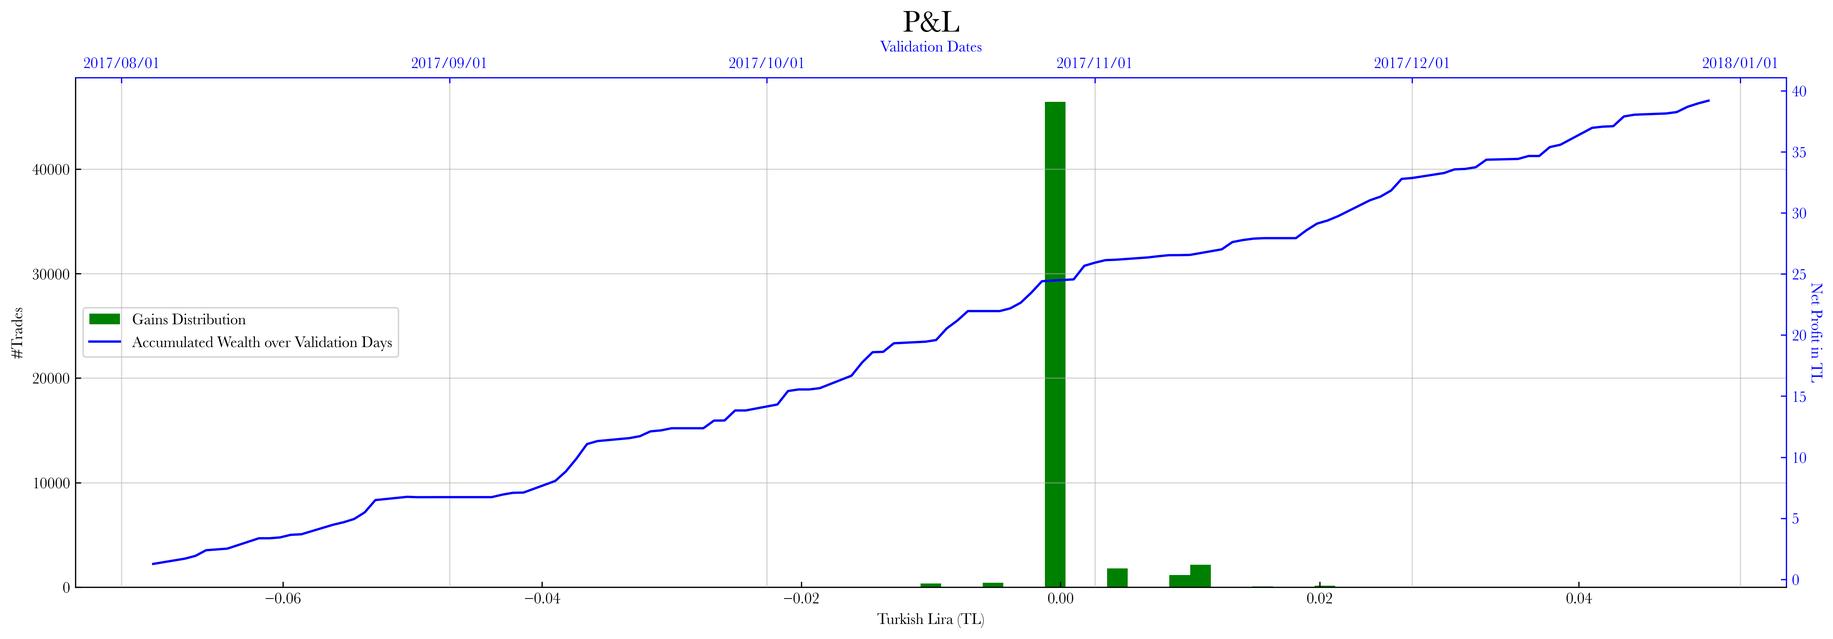
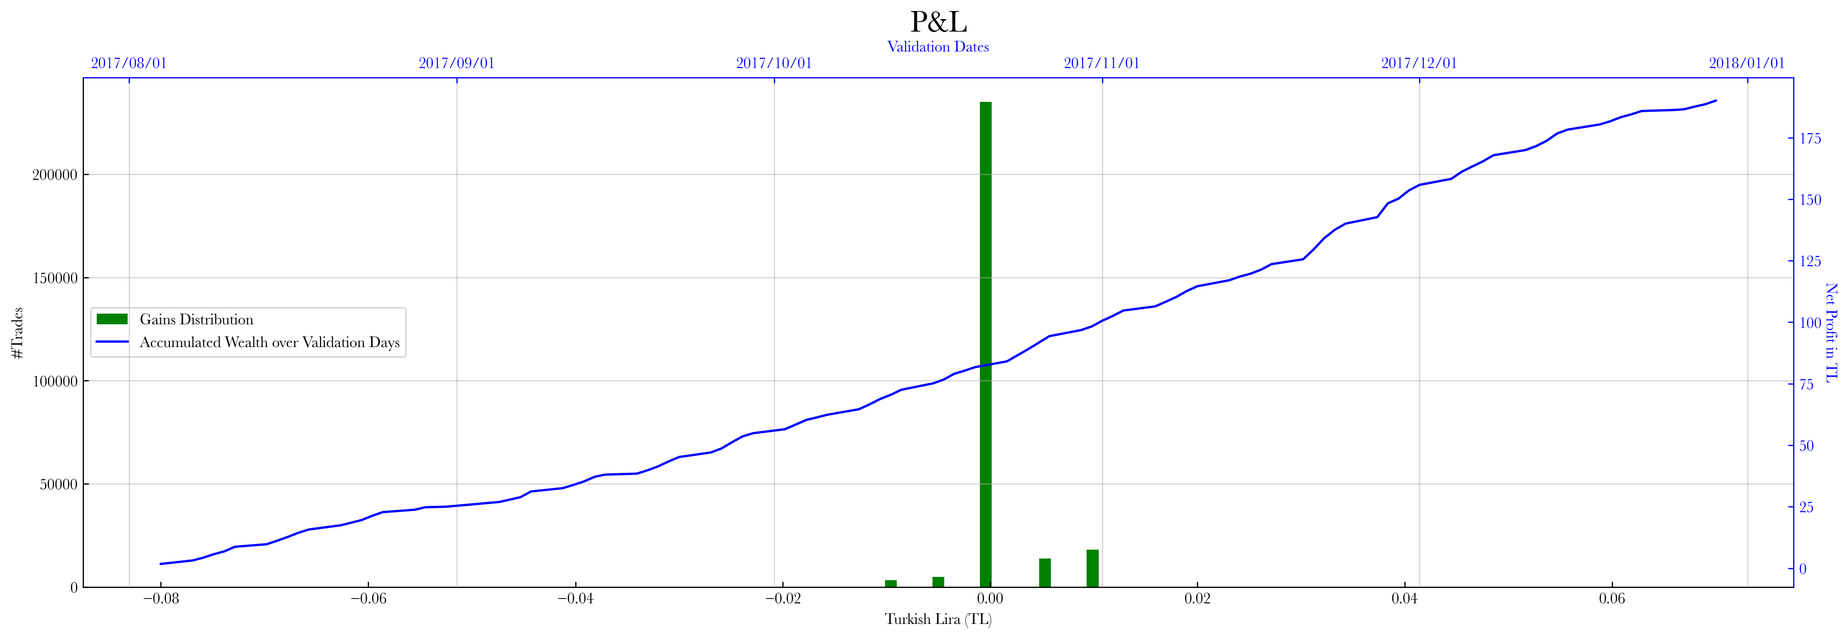
updated RL_ex/paper/ESNPPO

diff --git a/RL_Examples/RL_paper/ESN-PPO/paper_reservoir_website_PPO.html b/RL_Examples/RL_paper/ESN-PPO/paper_reservoir_website_PPO.html
@@ -13051,8 +13051,7 @@ div#notebook {
 </style>
 
 <!-- Custom stylesheet, it must be in the same directory as the html file -->
-<link rel="stylesheet" href="../../RL_Examples.css">
-<script src="../../RL_Examples.js"></script>
+<link rel="stylesheet" href="custom.css">
 
 <!-- Loading mathjax macro -->
 <!-- Load mathjax -->
@@ -13158,7 +13157,6 @@ $( document ).ready(function(){
 <span class="kn">import</span> <span class="nn">pandas</span> <span class="k">as</span> <span class="nn">pd</span>
 <span class="kn">import</span> <span class="nn">numpy</span> <span class="k">as</span> <span class="nn">np</span>
 <span class="kn">from</span> <span class="nn">CustomStableBaselines</span> <span class="kn">import</span> <span class="n">CustomPPO</span>
-<span class="kn">from</span> <span class="nn">CustomReservoirNetwork_Policy</span> <span class="kn">import</span> <span class="n">CustomActorCriticReservoirPolicy</span>
 <span class="kn">from</span> <span class="nn">LOBenv_mid</span> <span class="kn">import</span> <span class="n">LOBEnv_mid</span>
 <span class="kn">from</span> <span class="nn">tqdm.notebook</span> <span class="kn">import</span> <span class="n">tqdm</span><span class="p">,</span><span class="n">trange</span>
 <span class="kn">from</span> <span class="nn">torchinfo</span> <span class="kn">import</span> <span class="n">summary</span>
@@ -13166,7 +13164,9 @@ $( document ).ready(function(){
 <span class="kn">from</span> <span class="nn">torchinfo</span> <span class="kn">import</span> <span class="n">summary</span>
 <span class="kn">from</span> <span class="nn">utils.df_handler</span> <span class="kn">import</span> <span class="n">force_zehnerpot</span>
 
-<span class="n">model_dir</span> <span class="o">=</span> <span class="s2">&quot;../../models/model_envs_mid_reservoir/13_12_21/&quot;</span>
+<span class="n">model_dir</span> <span class="o">=</span> <span class="s2">&quot;../../models/model_envs_mid_reservoir/18_12_2021_21_28_06/&quot;</span>
+<span class="n">sys</span><span class="o">.</span><span class="n">path</span><span class="o">.</span><span class="n">append</span><span class="p">(</span><span class="n">model_dir</span><span class="p">)</span>
+<span class="kn">from</span> <span class="nn">model</span> <span class="kn">import</span> <span class="n">CustomActorCriticReservoirPolicy</span>
 
 <span class="n">LOB</span> <span class="o">=</span> <span class="n">pd</span><span class="o">.</span><span class="n">read_pickle</span><span class="p">(</span><span class="s2">&quot;../../pkls/LOB_conti.pkl&quot;</span><span class="p">)</span>
 
@@ -13230,12 +13230,13 @@ $( document ).ready(function(){
 
 
 <div class="output_subarea output_stream output_stdout output_text">
-<pre>Reservoir generated. Spectral Radius: 6.632618786987508
+<pre>Reservoir generated. Number of units: 1000 Spectral Radius: 9.383778346648828
 Scaling matrix to have spectral radius 0.9...
-Done: 0.899999999999998
-Reservoir generated. Spectral Radius: 6.632618786987508
+Done: 0.8999999999999936
+Reservoir generated. Number of units: 1000 Spectral Radius: 9.383778346648828
 Scaling matrix to have spectral radius 0.9...
-Done: 0.899999999999998
+Done: 0.8999999999999936
+Win (input weights) generated.
 Win (input weights) generated.
 </pre>
 </div>
@@ -13261,29 +13262,29 @@ CustomActorCriticReservoirPolicy         --                        --
 │    └─Sequential: 2                     --                        --
 │    │    └─BatchNorm1d: 3-1             [1, 13]                   (recursive)
 │    └─CustomESNN: 2                     --                        --
-│    │    └─Linear: 3-2                  [1, 64]                   31,616
+│    │    └─Linear: 3-2                  [1, 64]                   64,896
 │    └─Sequential: 2                     --                        --
 │    │    └─Tanh: 3-3                    [1, 64]                   --
-│    └─Sequential: 2-4                   [1, 64]                   (recursive)
-│    └─BatchNorm1d: 2-5                  [1, 13]                   (recursive)
+│    └─Sequential: 2-4                   [1, 64]                   --
+│    └─BatchNorm1d: 2-5                  [1, 13]                   26
 │    └─Sequential: 2                     --                        --
 │    │    └─BatchNorm1d: 3-4             [1, 13]                   (recursive)
 │    └─CustomESNN: 2                     --                        --
-│    │    └─Linear: 3-5                  [1, 64]                   (recursive)
+│    │    └─Linear: 3-5                  [1, 64]                   64,896
 │    └─Sequential: 2                     --                        --
 │    │    └─Tanh: 3-6                    [1, 64]                   --
 ├─Linear: 1-3                            [1, 1]                    65
 ├─Linear: 1-4                            [1, 4]                    260
 ==========================================================================================
-Total params: 31,967
-Trainable params: 31,967
+Total params: 130,169
+Trainable params: 130,169
 Non-trainable params: 0
-Total mult-adds (M): 0.13
+Total mult-adds (M): 0.26
 ==========================================================================================
 Input size (MB): 0.00
 Forward/backward pass size (MB): 0.00
-Params size (MB): 0.13
-Estimated Total Size (MB): 0.13
+Params size (MB): 0.52
+Estimated Total Size (MB): 0.52
 ==========================================================================================</pre>
 </div>
 
@@ -13345,7 +13346,7 @@ Estimated Total Size (MB): 0.13
 <span class="n">args</span> <span class="o">=</span> <span class="p">[</span>
         <span class="p">[</span>
         <span class="p">[</span><span class="n">np</span><span class="o">.</span><span class="n">concatenate</span><span class="p">([</span><span class="o">*</span><span class="n">rewards_mid</span><span class="o">.</span><span class="n">values</span><span class="p">()]),</span><span class="s2">&quot;rice&quot;</span><span class="p">,</span><span class="nb">dict</span><span class="p">(</span><span class="n">color</span><span class="o">=</span><span class="s2">&quot;g&quot;</span><span class="p">,</span><span class="n">label</span><span class="o">=</span><span class="s2">&quot;Gains Distribution&quot;</span><span class="p">)],[</span><span class="s2">&quot;P&amp;L&quot;</span><span class="p">,</span><span class="nb">dict</span><span class="p">(</span><span class="n">fontsize</span><span class="o">=</span><span class="mi">20</span><span class="p">,</span><span class="n">pad</span><span class="o">=</span><span class="mi">30</span><span class="p">)],[</span><span class="s2">&quot;Turkish Lira (TL)&quot;</span><span class="p">]</span> <span class="p">,[</span><span class="s2">&quot;#Trades&quot;</span><span class="p">]</span>
-            <span class="p">,[</span><span class="n">validation_dates</span><span class="p">,</span><span class="n">wallet</span><span class="p">,</span><span class="nb">dict</span><span class="p">(</span><span class="n">color</span><span class="o">=</span><span class="s2">&quot;blue&quot;</span><span class="p">,</span><span class="n">label</span><span class="o">=</span><span class="s2">&quot;Accumulated Wealth over Validation Days&quot;</span><span class="p">)],[</span><span class="nb">dict</span><span class="p">(</span><span class="n">loc</span><span class="o">=</span><span class="s2">&quot;center left&quot;</span><span class="p">)],[],[</span><span class="nb">dict</span><span class="p">(</span><span class="n">direction</span><span class="o">=</span><span class="s1">&#39;in&#39;</span><span class="p">)]</span>
+            <span class="p">,[</span><span class="n">validation_dates</span><span class="p">,</span><span class="n">wallet</span><span class="p">,</span><span class="nb">dict</span><span class="p">(</span><span class="n">color</span><span class="o">=</span><span class="s2">&quot;blue&quot;</span><span class="p">,</span><span class="n">label</span><span class="o">=</span><span class="s2">&quot;Accumulated Wealth over Validation Days&quot;</span><span class="p">)],[</span><span class="nb">dict</span><span class="p">(</span><span class="n">loc</span><span class="o">=</span><span class="s2">&quot;center left&quot;</span><span class="p">)],[</span><span class="nb">dict</span><span class="p">(</span><span class="n">direction</span><span class="o">=</span><span class="s1">&#39;in&#39;</span><span class="p">)]</span>
                         <span class="p">,</span><span class="nb">dict</span><span class="p">(</span><span class="n">color</span><span class="o">=</span><span class="s2">&quot;blue&quot;</span><span class="p">),[</span><span class="nb">dict</span><span class="p">(</span><span class="n">axis</span><span class="o">=</span><span class="s1">&#39;both&#39;</span><span class="p">,</span><span class="n">colors</span><span class="o">=</span><span class="s1">&#39;blue&#39;</span><span class="p">,</span><span class="n">direction</span><span class="o">=</span><span class="s1">&#39;in&#39;</span><span class="p">)]</span>
                                 <span class="p">,[</span><span class="s2">&quot;%Y/%m/</span><span class="si">%d</span><span class="s2">&quot;</span><span class="p">],[</span><span class="s2">&quot;Validation Dates&quot;</span><span class="p">,</span><span class="nb">dict</span><span class="p">(</span><span class="n">color</span><span class="o">=</span><span class="s2">&quot;blue&quot;</span><span class="p">)],[</span><span class="s2">&quot;Net Profit in TL&quot;</span><span class="p">,</span><span class="nb">dict</span><span class="p">(</span><span class="n">labelpad</span><span class="o">=</span><span class="mi">10</span><span class="p">,</span><span class="n">rotation</span><span class="o">=-</span><span class="mi">90</span><span class="p">,</span><span class="n">color</span><span class="o">=</span><span class="s2">&quot;blue&quot;</span><span class="p">)]</span>
                                                         <span class="p">,[</span><span class="nb">dict</span><span class="p">(</span><span class="n">b</span><span class="o">=</span><span class="kc">True</span><span class="p">,</span><span class="n">axis</span><span class="o">=</span><span class="s1">&#39;y&#39;</span><span class="p">,</span><span class="n">alpha</span><span class="o">=</span><span class="mf">0.5</span><span class="p">)],[</span><span class="nb">dict</span><span class="p">(</span><span class="n">b</span><span class="o">=</span><span class="kc">True</span><span class="p">,</span><span class="n">axis</span><span class="o">=</span><span class="s1">&#39;x&#39;</span><span class="p">,</span><span class="n">alpha</span><span class="o">=</span><span class="mf">0.5</span><span class="p">)]</span>
@@ -13353,7 +13354,7 @@ Estimated Total Size (MB): 0.13
 <span class="p">]</span>
 
 <span class="n">attrs</span> <span class="o">=</span> <span class="p">[</span><span class="s2">&quot;hist&quot;</span><span class="p">,</span><span class="s2">&quot;set_title&quot;</span><span class="p">,</span><span class="s2">&quot;set_xlabel&quot;</span><span class="p">,</span><span class="s2">&quot;set_ylabel&quot;</span>
-             <span class="p">,</span><span class="s2">&quot;2nd_plot&quot;</span><span class="p">,</span><span class="s2">&quot;legend&quot;</span><span class="p">,</span><span class="s2">&quot;2nd_legend&quot;</span><span class="p">,</span><span class="s2">&quot;tick_params&quot;</span>
+             <span class="p">,</span><span class="s2">&quot;2nd_plot&quot;</span><span class="p">,</span><span class="s2">&quot;legend&quot;</span><span class="p">,</span><span class="s2">&quot;tick_params&quot;</span>
                      <span class="p">,</span><span class="s2">&quot;2nd_color_ax&quot;</span><span class="p">,</span><span class="s2">&quot;2nd_tick_params&quot;</span>
                              <span class="p">,</span><span class="s2">&quot;2nd_time_formatx&quot;</span><span class="p">,</span><span class="s2">&quot;2nd_set_xlabel&quot;</span><span class="p">,</span><span class="s2">&quot;2nd_set_ylabel&quot;</span>
                                             <span class="p">,</span><span class="s2">&quot;grid&quot;</span><span class="p">,</span><span class="s2">&quot;2nd_grid&quot;</span><span class="p">]</span>     
@@ -13378,13 +13379,13 @@ Estimated Total Size (MB): 0.13
 
  
  
-<div id="e2a3b3c3-3667-49d7-84e1-146e3feb0db2"></div>
+<div id="53ccce64-a737-4822-8e02-2327310d4e97"></div>
 <div class="output_subarea output_widget_view ">
 <script type="text/javascript">
-var element = $('#e2a3b3c3-3667-49d7-84e1-146e3feb0db2');
+var element = $('#53ccce64-a737-4822-8e02-2327310d4e97');
 </script>
 <script type="application/vnd.jupyter.widget-view+json">
-{"model_id": "be4a04d87b9f41b7b468372d6ede61dd", "version_major": 2, "version_minor": 0}
+{"model_id": "b0e37abc05204190b03549f5f2d090ca", "version_major": 2, "version_minor": 0}
 </script>
 </div>
 
@@ -13396,7 +13397,7 @@ var element = $('#e2a3b3c3-3667-49d7-84e1-146e3feb0db2');
 
 
 <div class="output_subarea output_stream output_stdout output_text">
-<pre>Total Gains: 39.18 TL in 103 days.
+<pre>Total Gains: 190.07 TL in 103 days.
 </pre>
 </div>
 </div>
@@ -13407,7 +13408,7 @@ var element = $('#e2a3b3c3-3667-49d7-84e1-146e3feb0db2');
 
 
 <div class="output_subarea output_stream output_stderr output_text">
-<pre>100%|██████████| 1/1 [00:00&lt;00:00, 14.96it/s]
+<pre>100%|██████████| 1/1 [00:00&lt;00:00, 11.01it/s]
 </pre>
 </div>
 </div>
@@ -13446,6 +13447,10 @@ var element = $('#e2a3b3c3-3667-49d7-84e1-146e3feb0db2');
     <div class="input_area">
 <div class=" highlight hl-ipython3"><pre><span></span><span class="n">log</span> <span class="o">=</span> <span class="n">pd</span><span class="o">.</span><span class="n">read_csv</span><span class="p">(</span><span class="n">model_dir</span><span class="o">+</span><span class="s2">&quot;progress.csv&quot;</span><span class="p">)</span>
 
+<span class="n">col_</span> <span class="o">=</span> <span class="n">log</span><span class="o">.</span><span class="n">columns</span><span class="p">[</span><span class="n">log</span><span class="o">.</span><span class="n">loc</span><span class="p">[</span><span class="mi">1</span><span class="p">]</span><span class="o">.</span><span class="n">map</span><span class="p">(</span><span class="k">lambda</span> <span class="n">x</span><span class="p">:</span> <span class="n">x</span><span class="o">.</span><span class="n">strip</span><span class="p">()</span><span class="o">.</span><span class="n">startswith</span><span class="p">(</span><span class="s1">&#39;[&#39;</span><span class="p">)</span> <span class="k">if</span> <span class="nb">isinstance</span><span class="p">(</span><span class="n">x</span><span class="p">,</span><span class="nb">str</span><span class="p">)</span> <span class="k">else</span> <span class="kc">False</span><span class="p">)]</span><span class="o">.</span><span class="n">item</span><span class="p">()</span>
+
+<span class="n">log</span><span class="p">[</span><span class="n">col_</span><span class="p">]</span><span class="o">.</span><span class="n">loc</span><span class="p">[</span><span class="n">log</span><span class="o">.</span><span class="n">index</span><span class="p">[</span><span class="n">log</span><span class="o">.</span><span class="n">index</span><span class="o">%</span><span class="k">25</span>==0]]=log[&#39;rewards&#39;].loc[log.index[log.index%25==0]]
+
 <span class="k">def</span> <span class="nf">parser</span><span class="p">(</span><span class="n">string</span><span class="p">):</span>
     <span class="n">temp</span><span class="o">=</span><span class="s1">&#39;&#39;</span>
     <span class="k">for</span> <span class="n">i</span><span class="p">,</span><span class="n">k</span> <span class="ow">in</span> <span class="nb">enumerate</span><span class="p">(</span><span class="n">string</span><span class="p">):</span>
@@ -13455,10 +13460,20 @@ var element = $('#e2a3b3c3-3667-49d7-84e1-146e3feb0db2');
             <span class="n">temp</span><span class="o">+=</span><span class="n">string</span><span class="p">[</span><span class="n">i</span><span class="p">]</span>
     <span class="k">return</span> <span class="nb">float</span><span class="p">(</span><span class="n">temp</span><span class="p">)</span>
 
+<span class="k">with</span> <span class="nb">open</span><span class="p">(</span><span class="n">model_dir</span><span class="o">+</span><span class="s1">&#39;log.txt&#39;</span><span class="p">)</span> <span class="k">as</span> <span class="n">f</span><span class="p">:</span>
+    <span class="n">lines</span> <span class="o">=</span> <span class="n">f</span><span class="o">.</span><span class="n">readlines</span><span class="p">()</span>
+    <span class="n">lines_</span> <span class="o">=</span> <span class="n">lines</span><span class="p">[</span><span class="o">-</span><span class="mi">14</span><span class="p">]</span><span class="o">.</span><span class="n">split</span><span class="p">(</span><span class="s1">&#39;|&#39;</span><span class="p">)</span>
+    <span class="k">assert</span> <span class="n">lines_</span><span class="p">[</span><span class="mi">1</span><span class="p">]</span><span class="o">.</span><span class="n">strip</span><span class="p">()</span> <span class="o">==</span> <span class="s1">&#39;time_elapsed&#39;</span>
+    <span class="n">time_elapsed</span> <span class="o">=</span> <span class="nb">int</span><span class="p">(</span><span class="n">lines_</span><span class="p">[</span><span class="mi">2</span><span class="p">]</span><span class="o">.</span><span class="n">strip</span><span class="p">())</span>
+    <span class="n">lines_</span> <span class="o">=</span> <span class="n">lines</span><span class="p">[</span><span class="o">-</span><span class="mi">15</span><span class="p">]</span><span class="o">.</span><span class="n">split</span><span class="p">(</span><span class="s1">&#39;|&#39;</span><span class="p">)</span>
+    <span class="k">assert</span> <span class="n">lines_</span><span class="p">[</span><span class="mi">1</span><span class="p">]</span><span class="o">.</span><span class="n">strip</span><span class="p">()</span> <span class="o">==</span> <span class="s1">&#39;iterations&#39;</span>
+    <span class="n">iterations</span> <span class="o">=</span> <span class="nb">int</span><span class="p">(</span><span class="n">lines_</span><span class="p">[</span><span class="mi">2</span><span class="p">]</span><span class="o">.</span><span class="n">strip</span><span class="p">())</span>
 
-<span class="n">rewards_df</span> <span class="o">=</span> <span class="n">pd</span><span class="o">.</span><span class="n">DataFrame</span><span class="p">(</span><span class="n">log</span><span class="p">[</span><span class="s2">&quot;rewards&quot;</span><span class="p">]</span><span class="o">.</span><span class="n">apply</span><span class="p">(</span><span class="n">parser</span><span class="p">)</span><span class="o">.</span><span class="n">values</span><span class="o">.</span><span class="n">reshape</span><span class="p">(</span><span class="o">-</span><span class="mi">1</span><span class="p">,</span><span class="mi">25</span><span class="p">),</span><span class="n">columns</span><span class="o">=</span><span class="nb">range</span><span class="p">(</span><span class="mi">25</span><span class="p">),</span><span class="n">index</span><span class="o">=</span><span class="nb">range</span><span class="p">(</span><span class="mi">250</span><span class="p">))</span>
 
-<span class="nb">print</span><span class="p">(</span><span class="sa">f</span><span class="s2">&quot;Training duration: </span><span class="si">{</span><span class="nb">round</span><span class="p">(</span><span class="mi">16962</span><span class="o">/</span><span class="mi">3600</span><span class="p">,</span><span class="mi">2</span><span class="p">)</span><span class="si">}</span><span class="s2"> Hours&quot;</span><span class="p">)</span>
+<span class="n">rewards_df</span> <span class="o">=</span> <span class="n">pd</span><span class="o">.</span><span class="n">DataFrame</span><span class="p">(</span><span class="n">log</span><span class="p">[</span><span class="n">col_</span><span class="p">]</span><span class="o">.</span><span class="n">apply</span><span class="p">(</span><span class="n">parser</span><span class="p">)</span><span class="o">.</span><span class="n">values</span><span class="o">.</span><span class="n">reshape</span><span class="p">(</span><span class="o">-</span><span class="mi">1</span><span class="p">,</span><span class="mi">25</span><span class="p">),</span><span class="n">columns</span><span class="o">=</span><span class="nb">range</span><span class="p">(</span><span class="mi">25</span><span class="p">),</span><span class="n">index</span><span class="o">=</span><span class="nb">range</span><span class="p">(</span><span class="n">iterations</span><span class="p">))</span>
+
+<span class="n">cumulative_rewards</span> <span class="o">=</span> <span class="n">rewards_df</span><span class="o">.</span><span class="n">sum</span><span class="p">(</span><span class="mi">1</span><span class="p">)</span>
+<span class="nb">print</span><span class="p">(</span><span class="sa">f</span><span class="s2">&quot;Training duration: </span><span class="si">{</span><span class="nb">round</span><span class="p">(</span><span class="n">time_elapsed</span><span class="o">/</span><span class="mi">3600</span><span class="p">,</span><span class="mi">2</span><span class="p">)</span><span class="si">}</span><span class="s2"> Hours&quot;</span><span class="p">)</span>
 
 <span class="n">means</span> <span class="o">=</span> <span class="n">rewards_df</span><span class="o">.</span><span class="n">mean</span><span class="p">(</span><span class="mi">0</span><span class="p">)</span><span class="o">.</span><span class="n">apply</span><span class="p">(</span><span class="k">lambda</span> <span class="n">x</span><span class="p">:</span><span class="n">force_zehnerpot</span><span class="p">(</span><span class="n">x</span><span class="p">,</span><span class="mi">1</span><span class="p">,</span><span class="mf">0.01</span><span class="p">))</span>
 <span class="n">medians</span> <span class="o">=</span> <span class="n">rewards_df</span><span class="o">.</span><span class="n">median</span><span class="p">(</span><span class="mi">0</span><span class="p">)</span><span class="o">.</span><span class="n">apply</span><span class="p">(</span><span class="k">lambda</span> <span class="n">x</span><span class="p">:</span><span class="n">force_zehnerpot</span><span class="p">(</span><span class="n">x</span><span class="p">,</span><span class="mi">1</span><span class="p">,</span><span class="mf">0.01</span><span class="p">))</span>
@@ -13466,11 +13481,14 @@ var element = $('#e2a3b3c3-3667-49d7-84e1-146e3feb0db2');
 <span class="n">skews</span> <span class="o">=</span> <span class="n">rewards_df</span><span class="o">.</span><span class="n">skew</span><span class="p">(</span><span class="mi">0</span><span class="p">)</span><span class="o">.</span><span class="n">round</span><span class="p">(</span><span class="mi">3</span><span class="p">)</span>
 
 <span class="n">plotter</span><span class="p">([</span>
-        <span class="p">[[</span><span class="n">rewards_df</span><span class="p">,</span><span class="nb">dict</span><span class="p">(</span><span class="n">alpha</span><span class="o">=</span><span class="mf">0.8</span><span class="p">,</span><span class="n">markersize</span><span class="o">=</span><span class="mf">0.01</span><span class="p">,</span><span class="n">label</span><span class="o">=</span><span class="p">[</span><span class="sa">f</span><span class="s2">&quot;Env </span><span class="si">{</span><span class="n">i</span><span class="si">}</span><span class="s2">&quot;</span> <span class="k">for</span> <span class="n">i</span> <span class="ow">in</span> <span class="nb">range</span><span class="p">(</span><span class="mi">1</span><span class="p">,</span><span class="mi">25</span><span class="o">+</span><span class="mi">1</span><span class="p">)])],</span>
-                             <span class="p">[</span><span class="s2">&quot;Sample Rewards&quot;</span><span class="p">,</span><span class="nb">dict</span><span class="p">(</span><span class="n">fontsize</span><span class="o">=</span><span class="mi">20</span><span class="p">)],[</span><span class="s2">&quot;#Episode&quot;</span><span class="p">],[</span><span class="s2">&quot;Rewards&quot;</span><span class="p">],[</span><span class="nb">dict</span><span class="p">(</span><span class="n">loc</span><span class="o">=</span><span class="s2">&quot;lower center&quot;</span><span class="p">,</span><span class="n">ncol</span><span class="o">=</span><span class="mi">5</span><span class="p">)],[</span><span class="nb">dict</span><span class="p">(</span><span class="n">b</span><span class="o">=</span><span class="kc">True</span><span class="p">,</span><span class="n">axis</span><span class="o">=</span><span class="s1">&#39;both&#39;</span><span class="p">,</span><span class="n">alpha</span><span class="o">=</span><span class="mf">0.9</span><span class="p">)]]</span>
+        <span class="p">[[</span><span class="n">rewards_df</span><span class="p">,</span><span class="nb">dict</span><span class="p">(</span><span class="n">alpha</span><span class="o">=</span><span class="mf">0.8</span><span class="p">,</span><span class="n">markersize</span><span class="o">=</span><span class="mf">0.01</span><span class="p">,</span><span class="n">label</span><span class="o">=</span><span class="p">[</span><span class="sa">f</span><span class="s2">&quot;Env </span><span class="si">{</span><span class="n">i</span><span class="si">}</span><span class="s2">&quot;</span> <span class="k">for</span> <span class="n">i</span> <span class="ow">in</span> <span class="nb">range</span><span class="p">(</span><span class="mi">1</span><span class="p">,</span><span class="mi">25</span><span class="o">+</span><span class="mi">1</span><span class="p">)])],</span> 
+                    <span class="p">{</span><span class="s1">&#39;plot&#39;</span><span class="p">:[</span><span class="n">cumulative_rewards</span><span class="p">,</span><span class="nb">dict</span><span class="p">(</span><span class="n">linewidth</span><span class="o">=</span><span class="s1">&#39;10&#39;</span><span class="p">,</span><span class="n">color</span><span class="o">=</span><span class="s1">&#39;k&#39;</span><span class="p">,</span><span class="n">alpha</span><span class="o">=</span><span class="mf">0.5</span><span class="p">,</span><span class="n">label</span><span class="o">=</span><span class="s1">&#39;Cumulative Rewards&#39;</span><span class="p">)],</span><span class="s1">&#39;set_ylabel&#39;</span><span class="p">:[</span><span class="s2">&quot;Cumulative Rewards&quot;</span><span class="p">,</span><span class="nb">dict</span><span class="p">(</span><span class="n">rotation</span><span class="o">=-</span><span class="mi">90</span><span class="p">,</span><span class="n">labelpad</span><span class="o">=</span><span class="mi">15</span><span class="p">)],</span><span class="s1">&#39;legend&#39;</span><span class="p">:[]},</span>
+                             <span class="p">[</span><span class="s2">&quot;Sample Rewards&quot;</span><span class="p">,</span><span class="nb">dict</span><span class="p">(</span><span class="n">fontsize</span><span class="o">=</span><span class="mi">20</span><span class="p">)],[</span><span class="s2">&quot;#Episode&quot;</span><span class="p">],[</span><span class="s2">&quot;Individual Rewards&quot;</span><span class="p">],[</span><span class="nb">dict</span><span class="p">(</span><span class="n">loc</span><span class="o">=</span><span class="s2">&quot;lower center&quot;</span><span class="p">,</span><span class="n">ncol</span><span class="o">=</span><span class="mi">5</span><span class="p">)],[</span><span class="nb">dict</span><span class="p">(</span><span class="n">b</span><span class="o">=</span><span class="kc">True</span><span class="p">,</span><span class="n">axis</span><span class="o">=</span><span class="s1">&#39;both&#39;</span><span class="p">,</span><span class="n">alpha</span><span class="o">=</span><span class="mf">0.9</span><span class="p">)]]</span>
         <span class="p">]</span> \
-        <span class="p">,[</span><span class="s2">&quot;plot&quot;</span><span class="p">,</span><span class="s2">&quot;set_title&quot;</span><span class="p">,</span><span class="s2">&quot;set_xlabel&quot;</span><span class="p">,</span><span class="s2">&quot;set_ylabel&quot;</span><span class="p">,</span><span class="s2">&quot;legend&quot;</span><span class="p">,</span><span class="s2">&quot;grid&quot;</span><span class="p">]</span> \
-        <span class="p">,</span><span class="n">ncols</span><span class="o">=</span><span class="mi">1</span><span class="p">,</span><span class="n">dpi</span><span class="o">=</span><span class="mi">300</span><span class="p">,</span><span class="n">show</span><span class="o">=</span><span class="mi">1</span><span class="p">);</span>
+        <span class="p">,[</span>  <span class="s2">&quot;plot&quot;</span><span class="p">,</span>
+            <span class="s2">&quot;make_twinx&quot;</span><span class="p">,</span>
+            <span class="s2">&quot;set_title&quot;</span><span class="p">,</span><span class="s2">&quot;set_xlabel&quot;</span><span class="p">,</span><span class="s2">&quot;set_ylabel&quot;</span><span class="p">,</span><span class="s2">&quot;legend&quot;</span><span class="p">,</span><span class="s2">&quot;grid&quot;</span><span class="p">]</span> \
+            <span class="p">,</span><span class="n">ncols</span><span class="o">=</span><span class="mi">1</span><span class="p">,</span><span class="n">dpi</span><span class="o">=</span><span class="mi">300</span><span class="p">,</span><span class="n">show</span><span class="o">=</span><span class="mi">1</span><span class="p">);</span>
 
 <span class="n">args</span> <span class="o">=</span> <span class="p">[[[</span><span class="n">rewards_df</span><span class="p">[</span><span class="n">i</span><span class="p">],</span><span class="s2">&quot;scott&quot;</span><span class="p">,{</span><span class="s2">&quot;zorder&quot;</span><span class="p">:</span><span class="mi">0</span><span class="p">,</span><span class="s2">&quot;color&quot;</span><span class="p">:</span><span class="s2">&quot;sienna&quot;</span><span class="p">}],[</span><span class="nb">dict</span><span class="p">(</span><span class="n">axis</span><span class="o">=</span><span class="s1">&#39;x&#39;</span><span class="p">,</span> <span class="n">style</span><span class="o">=</span><span class="s1">&#39;scientific&#39;</span><span class="p">,</span><span class="n">scilimits</span><span class="o">=</span><span class="p">(</span><span class="o">-</span><span class="mi">5</span><span class="p">,</span><span class="o">-</span><span class="mi">5</span><span class="p">))],[</span><span class="sa">f</span><span class="s2">&quot;Environment </span><span class="si">{</span><span class="n">i</span><span class="o">+</span><span class="mi">1</span><span class="si">}</span><span class="s2">&quot;</span><span class="p">],[</span><span class="s2">&quot;Rewards&quot;</span><span class="p">],[</span><span class="s2">&quot;Counts&quot;</span><span class="p">]</span>
             <span class="p">,[</span><span class="nb">dict</span><span class="p">(</span><span class="n">cellText</span><span class="o">=</span><span class="p">[[</span><span class="n">means</span><span class="p">[</span><span class="n">i</span><span class="p">]],[</span><span class="n">medians</span><span class="p">[</span><span class="n">i</span><span class="p">]],[</span><span class="n">stds</span><span class="p">[</span><span class="n">i</span><span class="p">]],[</span><span class="n">skews</span><span class="p">[</span><span class="n">i</span><span class="p">]]],</span> <span class="n">rowLabels</span><span class="o">=</span><span class="p">[</span><span class="sa">r</span><span class="s2">&quot;$\mu$&quot;</span><span class="p">,</span><span class="s2">&quot;median&quot;</span><span class="p">,</span><span class="sa">r</span><span class="s2">&quot;$\sigma$&quot;</span><span class="p">,</span><span class="s2">&quot;skewness&quot;</span><span class="p">],</span> <span class="n">bbox</span><span class="o">=</span><span class="p">(</span><span class="mf">0.25</span><span class="p">,</span><span class="mf">0.6</span><span class="p">,</span><span class="mf">0.18</span><span class="p">,</span><span class="mf">0.3</span><span class="p">)),</span> 
@@ -13494,8 +13512,23 @@ var element = $('#e2a3b3c3-3667-49d7-84e1-146e3feb0db2');
     <div class="prompt"></div>
 
 
+<div class="output_subarea output_stream output_stderr output_text">
+<pre>/Users/egeyilmaz/opt/anaconda3/envs/MLinFin/lib/python3.9/site-packages/pandas/core/indexing.py:1732: SettingWithCopyWarning: 
+A value is trying to be set on a copy of a slice from a DataFrame
+
+See the caveats in the documentation: https://pandas.pydata.org/pandas-docs/stable/user_guide/indexing.html#returning-a-view-versus-a-copy
+  self._setitem_single_block(indexer, value, name)
+</pre>
+</div>
+</div>
+
+<div class="output_area">
+
+    <div class="prompt"></div>
+
+
 <div class="output_subarea output_stream output_stdout output_text">
-<pre>Training duration: 4.71 Hours
+<pre>Training duration: 1.89 Hours
 </pre>
 </div>
 </div>
@@ -13506,7 +13539,7 @@ var element = $('#e2a3b3c3-3667-49d7-84e1-146e3feb0db2');
 
 
 <div class="output_subarea output_stream output_stderr output_text">
-<pre>100%|██████████| 1/1 [00:00&lt;00:00, 48.30it/s]
+<pre>100%|██████████| 1/1 [00:00&lt;00:00, 22.21it/s]
 </pre>
 </div>
 </div>
@@ -13519,7 +13552,7 @@ var element = $('#e2a3b3c3-3667-49d7-84e1-146e3feb0db2');
 
 
 <div class="output_png output_subarea ">
-<img src="paper_reservoir_website_PPO_files/paper_reservoir_website_PPO_9_2.png"
+<img src="paper_reservoir_website_PPO_files/paper_reservoir_website_PPO_9_3.png"
 >
 </div>
 
@@ -13531,7 +13564,7 @@ var element = $('#e2a3b3c3-3667-49d7-84e1-146e3feb0db2');
 
 
 <div class="output_subarea output_stream output_stderr output_text">
-<pre>100%|██████████| 25/25 [00:00&lt;00:00, 117.99it/s]
+<pre>100%|██████████| 25/25 [00:00&lt;00:00, 109.12it/s]
 </pre>
 </div>
 </div>
@@ -13544,7 +13577,7 @@ var element = $('#e2a3b3c3-3667-49d7-84e1-146e3feb0db2');
 
 
 <div class="output_png output_subarea ">
-<img src="paper_reservoir_website_PPO_files/paper_reservoir_website_PPO_9_4.png"
+<img src="paper_reservoir_website_PPO_files/paper_reservoir_website_PPO_9_5.png"
 >
 </div>
 
